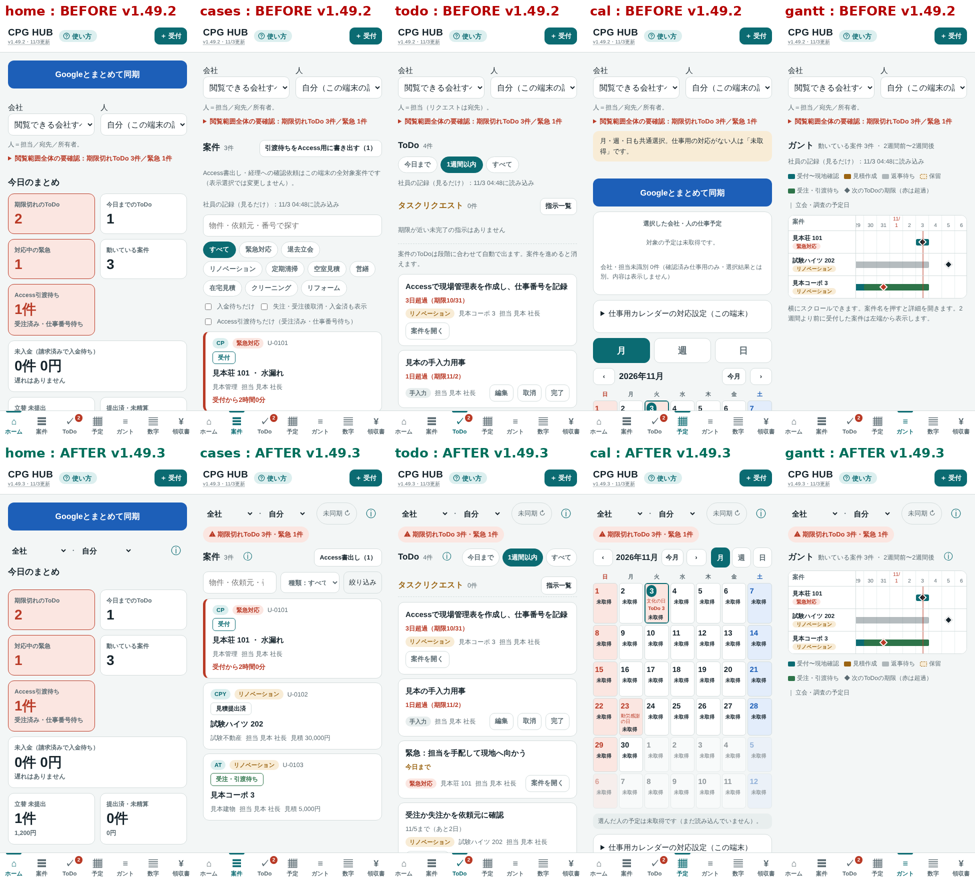
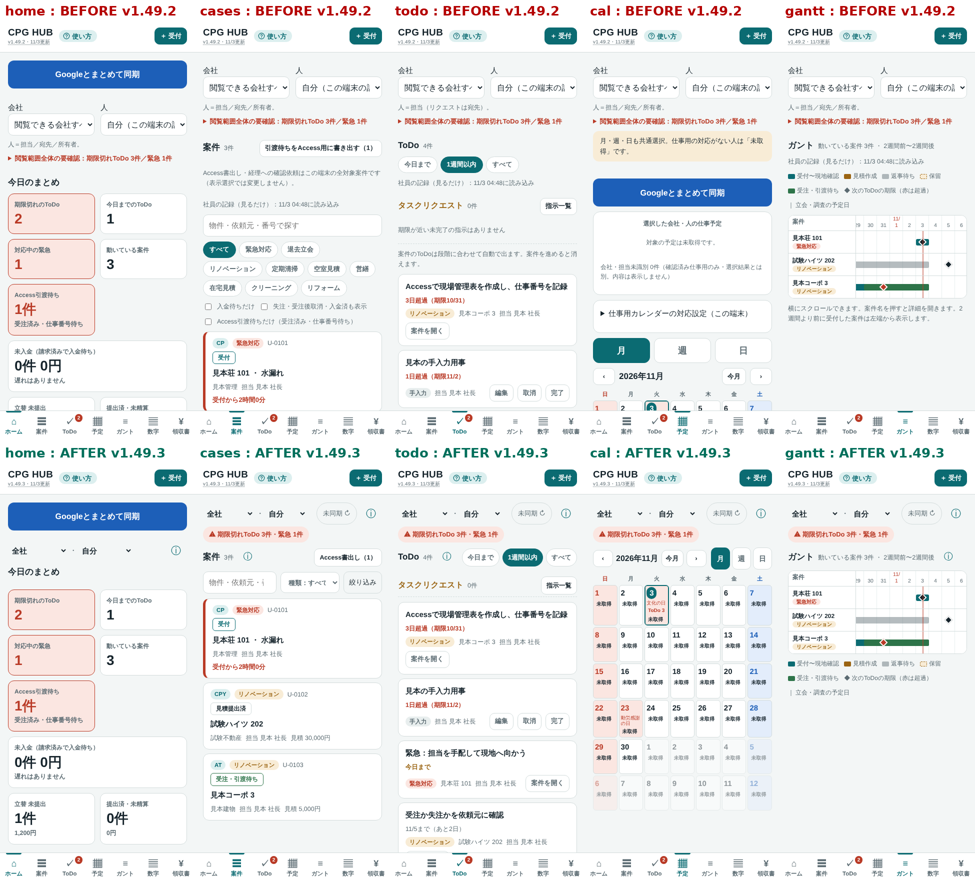
Move calendar notes into the info box and the mapping setting under settings; update manuals (v1.49.3)
The calendar tab drops the status panel: its explanation opens from the
(i) button, and only small tags remain for events whose owner is unknown,
read failures or a needed re-sync. Month/week/day is a thin 44px switch
on the month row. The work-calendar mapping moves to the settings under
the numbers tab. Manuals gain first-use steps (staff and GM/全社), the
new-device notes about calendar links and duplicate registration, and
plain words in place of developer terms.

Claude-Session: https://claude.ai/code/session_017ZjmPTZswQcPFukXWs9n4w

Changed region(s): [[0.6154, 0.7636, 0.8, 0.8552], [0.6154, 0.6109, 0.8, 0.733], [0.6154, 0.8857, 0.7692, 0.9774]]

diff --git a/manual.html b/manual.html
@@ -76,7 +76,7 @@ th{color:var(--muted);font-size:13px}
   <div class="card"><b>もくじ</b>
     <ol class="toc">
       <li><a href="#intro">はじめに</a></li>
-      <li><a href="#setup">最初の設定</a></li>
+      <li><a href="#setup">最初の設定</a>（<a href="#firstuse">初めて使うとき</a>・<a href="#newdevice">新しいスマホ・PC</a>）</li>
       <li><a href="#daily">毎日の使い方（1日3回の同期・ToDo）</a></li>
       <li><a href="#cases">案件</a></li>
       <li><a href="#calendar">予定とカレンダー</a></li>
@@ -104,6 +104,25 @@ th{color:var(--muted);font-size:13px}
 
 <section id="setup">
   <h2>最初の設定</h2>
+  <h3 id="firstuse">初めて使うとき（ホームの「初期設定」）</h3>
+  <p>新しい端末で開くと、ホームの一番上に <b>初期設定</b> が出ます。「次にすること」のボタンを、上から順に押してください。順番を飛ばすと「先に○○をしてください」と出て止まります。</p>
+  <p><b>社員の人</b>（役割は「社員」のまま）</p>
+  <ol>
+    <li>Googleにログイン（仕事で使うGoogleアカウント）</li>
+    <li>本人の記録シートにつなぐ（社長から届いたメールのリンクを貼り付ける）</li>
+    <li>氏名・会社を確かめる</li>
+    <li>最初の同期</li>
+    <li>案件の受付・ToDo・領収書のどれかを1件入れて保存し、「保存と読み戻しを確かめる」を押す</li>
+  </ol>
+  <p><b>GM・全社の人</b>（案内の「役割」で「GM・全社」を押す）</p>
+  <ol>
+    <li>Googleにログイン</li>
+    <li>本人の記録シートにつなぐ</li>
+    <li>氏名・会社を確かめる</li>
+    <li>最初の同期</li>
+    <li>見る人用一覧をつなぐ（社長から届いた「見る人用のリンク」を貼り付ける）。<b>必ず④のあとにします。</b>先につなぐと、会社・人の選択肢から自分が外れます</li>
+  </ol>
+  <p class="note">同期したときに「この端末には記録がありません」と出たら、<a href="#newdevice">新しいスマホ・PCで使い始めるとき</a> を見てください。終わったら「案内を閉じる」を押します。下の1〜3は、案内の中でしていることの詳しい説明です。</p>
   <h3>1. 新しい版にする（開き直す）</h3>
   <ol>
     <li>CPG HUB を開く</li>
@@ -221,6 +240,9 @@ th{color:var(--muted);font-size:13px}
     <li>土曜は青、日曜と祝日は赤です。案件の現調・実施・見積提出などの印は、この画面には出しません。進捗は<b>案件・ガント</b>で確認します</li>
     <li><b>社長のマイカレンダーは読み込みません。</b>社長の端末の「自分」、社員の端末の「社長」に当たる同じカレンダーが対象です。社員自身のカレンダーと共有の「CPG HUB」は引き続き表示できます。設定で全ての表示チェックを外した場合は、Googleの予定を表示しません</li>
     <li>Googleの予定は、カレンダーごとに色と小さなラベル（「CPG HUB」「黒木」など）が付きます</li>
+    <li>月・週・日の切り替えは、年月の右の細い切り替えです。予定がちゃんと読み込めているかは、上の <b>ⓘ</b> で見られます。「未取得」はまだ読み込めていない日で、予定がないという意味ではありません</li>
+    <li>持ち主の分からない予定や、同期し直しが要る予定があるときだけ、年月の下に小さな札が出ます</li>
+    <li>仕事用のカレンダーを会社・人と結び付ける設定は、<b>数字</b> → 下の <b>仕事用カレンダーの対応設定（この端末）</b> にあります。普段は使いません</li>
   </ul>
   <div class="note"><b>予定はGoogleカレンダーから表示します。</b>HUBからGoogleに登録した予定も表示します。案件の記録だけでは予定は増えません。<br>ToDoは<b>ToDo画面</b>で管理します。<b>今日が期限・期限を過ぎた未完了のToDoだけ、今日の欄にも表示</b>します。未来の日・過去の期限日にはToDoを並べません。今日のToDoを押すとToDo画面を開きます。<br>更新後は一度「Googleとまとめて同期」を押してください。旧版で残したGoogle予定はカレンダーIDがなく安全に見分けられないため、初回にこの端末のGoogle予定キャッシュだけを消します。案件・ToDo・領収書は消しません。更新後の予定は読み込み元IDを確認して保存・表示します。端末ごとに新版を開いてください（開きっぱなしの旧版には反映されません）。</div>
   <ol>
@@ -308,7 +330,8 @@ th{color:var(--muted);font-size:13px}
   <ol>
     <li>前の端末の記録を引き継ぐときは <span class="btn">共有の記録から、この端末に取り込む</span> を押す</li>
     <li>「取り込み、読み戻して一致を確かめました」と出たら、<span class="blue">Googleとまとめて同期</span> を押す</li>
-    <li>写真・メモ・住所の詳細は共有の記録シートにないため戻りません。必要なものは前の端末で確かめてください</li>
+    <li>写真・メモ・症状・住所の詳細と、<b>Googleカレンダーとのつながり</b>は共有の記録シートにないため戻りません。必要なものは前の端末で確かめてください</li>
+    <li><b>取り込んだ案件の予定は、先にGoogleカレンダーを見て、もう入っているか確かめてください。</b>入っているのに案件の画面で「カレンダーに登録」を押すと、同じ予定が2つできます</li>
   </ol>
   <p class="note">分からないときは <span class="btn">やめる</span> を押して社長に連絡してください。やめても、記録が空か少ないあいだは同期で書き込みません。</p>
   <h3>タスクリクエスト（社員用）</h3>
@@ -423,10 +446,10 @@ th{color:var(--muted);font-size:13px}
 <section><h2>v1.48.2（2026年11月1日）日付のずれと文字の折り返し</h2><p>同期結果の「日付の変わった案件」には受付番号・物件・部屋と、HUBの予定日／カレンダーに登録した日付を表示します。最初の5件を表示し、「ほか○件」で残りを開閉できます。案件を押すとGoogleカレンダー欄へ移動します。日付のずれは同期エラーとは別の「要確認」です。必要な更新は本人が「カレンダーの予定を更新」を押して行います。自動更新はしません。文字が大きい場合も枠内で折り返し、広い表は表の中で横にスクロールします。</p></section>
 <section><h2>v1.48.3（2026年11月1日）数字の月別・全期間</h2><p>数字画面の「月別／全期間」で集計期間を切り替えます。月別の初期表示は日本時間の今月で、年月を選ぶか「前月」「翌月」で移動できます。見積提出は見積提出日、受注は受注日、失注は失注日で数え、担当別・種類別・理由・受注額・決定率を同じ期間で比べられます。全期間も日付のない実績は含めません。決定率は受注÷（受注＋失注）、0件なら「—」です。失注日未入力の注意は期間外の独立表示で、失注件数・決定率に含めません。未入金は現在残高で、選択期間の対象外です。失注段階優先と正しい受注後取消の受注履歴は従来どおりです。</p></section>
 <section><h2>v1.48.4（2026年11月1日）同期をホームの先頭へ</h2><p>ホームは、ヘッダーの直下に「Googleとまとめて同期」ボタンと同期結果を表示し、その下に今日のまとめ、タスクリクエスト、会社の動き（社長・全社・GM）を並べます。同期成功時の開閉や、エラー・今日未同期・未送信の完了報告・日付のずれ等の注意は従来どおりです。配置だけの変更で、同期・保存・権限・集計は変わりません。</p></section>
-<section><h2>v1.49.3（2026年11月3日）画面の上の部分を小さく</h2><p>どのタブも、上に積み重なっていた会社・人の大きなプルダウン、説明の文章、同期ボタンを小さくして、見たい一覧・予定・数字がすぐ見えるようにしました。会社・人は細い1行で、押すと選べます。注意があるときだけ赤い札が出て、押すとその一覧が開きます。説明は「ⓘ」を押したときだけ出ます。大きな「Googleとまとめて同期」はホームだけで、ほかのタブは小さな「日時 ↻」で同期します。この端末の同期の注意は、ホームでは今までどおり出し、ほかのタブでも「↻」に赤い「⚠」が付きます。</p><p>案件の種類はプルダウンに、「入金待ちだけ」などは「絞り込み」の中に、「Access書出し」は見出しの右端に移しました。予定は「月・週・日」を月の切り替えと同じ行に置き、読み込みの状況は予定の下に短い言葉で出します。数字の月は「‹ 前月｜年月｜翌月 ›」の1行（真ん中を押すと月を選べる）にしました。データ・同期・保存・権限・絞り込みの中身・集計は変えていません。</p></section>
+<section><h2>v1.49.3（2026年11月3日）画面の上の部分を小さく</h2><p>どのタブも、上に積み重なっていた会社・人の大きなプルダウン、説明の文章、同期ボタンを小さくして、見たい一覧・予定・数字がすぐ見えるようにしました。会社・人は細い1行で、押すと選べます。注意があるときだけ赤い札が出て、押すとその一覧が開きます。説明は「ⓘ」を押したときだけ出ます。大きな「Googleとまとめて同期」はホームだけで、ほかのタブは小さな「日時 ↻」で同期します。この端末の同期の注意は、ホームでは今までどおり出し、ほかのタブでも「↻」に赤い「⚠」が付きます。</p><p>案件の種類はプルダウンに、「入金待ちだけ」などは「絞り込み」の中に、「Access書出し」は見出しの右端に移しました。予定は、大きな同期ボタンをなくし、「月・週・日」を年月と同じ行の細い切り替えにしました。読み込みの状況の説明は「ⓘ」の中に入れ、持ち主の分からない予定などがあるときだけ小さな札を出します。「仕事用カレンダーの対応設定」は、普段使わないので予定のタブから「数字」の下の設定へ移しました。数字の月は「‹ 前月｜年月｜翌月 ›」の1行（真ん中を押すと月を選べる）にしました。データ・同期・保存・権限・絞り込みの中身・集計は変えていません。</p></section>
 <section><h2>v1.49.2（2026年11月3日）初期設定の案内と、入力途中の設定を残す</h2><p>新しい端末でCPG HUBを開くと、ホームの一番上に「初期設定」が出ます。社員は ①Googleにログイン → ②本人の記録シートにつなぐ → ③氏名・会社を確かめる → ④最初の同期 → ⑤記録を1件保存して、読み戻しを確かめる の順です。GM・全社の人は「役割」で「GM・全社」を選び、①〜④のあとに ⑤見る人用一覧をつなぐ です。今どこまで済んだかと次にすることが1画面に出ます。順番を飛ばしたとき（氏名・会社を確かめる前の同期、最初の同期の前の見る人用一覧など）は「先に○○をしてください」と出て止まります。⑤の確認では、確認用の記録は作りません。自分で入れた案件・ToDo・領収書が端末に保存され、読み戻せるかを確かめます。終わったら「案内を閉じる」を押します。社長の端末と、すでに使っている端末には出ません。</p><p>予定の画面の「仕事用カレンダーの対応設定」や、数字の画面の設定・ToDoの手入力は、入力の途中で画面が描き直されても（カレンダーの読み込みが終わったときなど）、入力した内容と開いた欄が残ります。カレンダーの一覧を読み込んでいるあいだは「読み込み中です」と出て、終わってから選べます。保存・追加すると、入力欄は空に戻ります。</p></section>
 <section><h2>v1.49.1（2026年11月3日）空の端末から同期しても共有の記録を消さない</h2><p>「Googleとまとめて同期」は、記録シートに書き込む前に、共有の記録シートの案件・入金・立替の件数を読みます。この端末の記録が空なのに共有の記録シートに行があるとき、または案件・立替が共有の半分より少ないとき（共有が4件以上）は、記録シートに何も書かずに止まり、「この端末には記録がありません。共有の記録シートに○件あります」と表示します。新しい端末で記録シートに最初につないだときも、同じ確認を出します。</p><p>「共有の記録から、この端末に取り込む」を押すと、共有の記録シートにある案件・入金・立替・手入力のToDoのうち、この端末にないものだけを取り込みます。取り込んだ内容を記録シートに送るときと同じ形にして共有の行と比べ、件数と内容が一致し、端末に保存して読み戻せたときだけ完了です。途中で失敗したときや一致しないときは、端末も共有の記録シートも変えません。この端末にある記録は書き換えません。写真・メモ・症状・住所の詳細は共有の記録シートにないため戻りません（領収書の写真のリンクは残ります）。「やめる」を押しても、記録が空か少ないあいだは同期で書き込みません。空のまま上書きする操作はありません。</p><p>共有の件数が読めないとき（通信が切れたときなど）も、記録シートに書き込みません。入金・立替・ToDoの表は、消してから書くのではなく1回の書き込みで置き換えるようにしたため、書き込みの途中で通信が切れても表が空になりません。</p></section>
-<section><h2>v1.49.0（2026年11月2日）共通の会社・人選択</h2><p>ホーム・案件・ToDo・数字・ガント・指示一覧・領収書・会社の動きは、共通の会社・人のドロップダウンで同じ対象を選びます。人は案件と通常ToDoでは担当、リクエストでは宛先、領収書では所有者です。初めは自分。会社と人を選ぶと画面移動・再読込後も引き継ぎます。会社未設定の案件・領収書は所属会社から推測せず「会社未設定」で確認します。案件に結び付かないToDoとリクエストの会社は、根拠のある担当・宛先の所属によります。</p><p>同名の人はシートIDで区別します。選んだ人を読めない・権限を確認できないときに、勝手に全員へ切り替えません。未読込や読込失敗は0件という意味ではありません。数字の月別／全期間と計算方法、保存データ、同期出力は変わりません。</p><p>ToDoの期間、数字の年月・全期間はそのまま使えます。絞り込んだ件数とは別に、閲覧範囲全体の期限切れToDo・緊急・未読と、この端末の同期の注意を表示します。会社の動きの同期状況は閲覧範囲全体の注意です。入力中の画面では選択を変えず、一覧へ戻って変更します。入金確認依頼やAccess書出し等の既存操作は表示選択で対象を変更しません。領収書の支払い方法だけは領収書画面内で選べます。</p><p>予定の月・週・日と今日のToDoも共通選択に連動します。予定画面の「仕事用カレンダーの対応設定」で、取得済みのGoogle一覧から仕事専用と確認したIDを選び、会社・正規社員を確認して保存します。このブラウザの利用設定別に保存し、他端末へ自動配布しません。未設定・未接続・範囲外・読取失敗は「未取得」で、取得済み0件とは区別します。社員候補は予定未接続でも残ります。「数字」→「Googleカレンダー連携」の読込対象にも選び、予定入力後は本人が同期してください。対応設定だけでは読込対象を増やしません。</p><p>複数社を担当し予定ごとの会社が不明なら「会社未特定」を選びます。全社＋本人では表示し、単社へ推測で振り分けません。混在仕事共有は、案件の元記録に保存されたカレンダーID＋イベントID＋受付番号が一意に一致する場合だけ分類します。社員共有表にはイベントIDがないため、他社員の混在予定や旧キャッシュのID欠落は未識別の別件数です。私的予定・未確認カレンダーは表示せず、「全員」でも確認済み仕事用だけです。旧キャッシュで非公開区分を確認できない行は原本を保持し、内容を表示せず「非公開区分未確認」とします。本人が同期して安全属性を再取得してから表示します。混在共有の読取失敗は「追加予定未確認」、取得済みで会社・人物が不明なものは「未識別あり」と分け、予定なしとは断定しません。Google予定・ACL・登録更新処理は変更しません。</p></section>
+<section><h2>v1.49.0（2026年11月2日）共通の会社・人選択</h2><p>ホーム・案件・ToDo・数字・ガント・指示一覧・領収書・会社の動きは、共通の会社・人のドロップダウンで同じ対象を選びます。人は、案件とToDoでは担当、リクエストではあて先、領収書では出した人です。初めは自分。会社と人を選ぶと画面移動・再読込後も引き継ぎます。会社未設定の案件・領収書は所属会社から推測せず「会社未設定」で確認します。案件に結び付かないToDoとリクエストの会社は、根拠のある担当・宛先の所属によります。</p><p>同名の人はシートIDで区別します。選んだ人を読めない・権限を確認できないときに、勝手に全員へ切り替えません。未読込や読込失敗は0件という意味ではありません。数字の月別／全期間と計算方法、保存データ、同期出力は変わりません。</p><p>ToDoの期間、数字の年月・全期間はそのまま使えます。選んだ会社・人の件数とは別に、見られる人全体の期限切れToDo・緊急・まだ読み込めていない人と、この端末の同期の注意を出します。会社の動きの同期の状況は、見られる人全体の注意です。入力中の画面では選択を変えず、一覧へ戻って変更します。入金確認依頼やAccess書出し等の既存操作は表示選択で対象を変更しません。領収書の支払い方法だけは領収書画面内で選べます。</p><p>予定の月・週・日と今日のToDoも、選んだ会社・人に合わせて出します。予定画面の「仕事用カレンダーの対応設定」で、取得済みのGoogle一覧から仕事専用と確認したIDを選び、会社・正規社員を確認して保存します。このブラウザの利用設定別に保存し、他端末へ自動配布しません。未設定・未接続・範囲外・読取失敗は「未取得」で、取得済み0件とは区別します。社員候補は予定未接続でも残ります。「数字」→「Googleカレンダー連携」の「予定画面に表示するカレンダー」でも選び、予定を入れたら本人が同期してください。結び付けただけでは、読み込むカレンダーは増えません。</p><p>複数社を担当し予定ごとの会社が不明なら「会社未特定」を選びます。全社＋本人では表示し、単社へ推測で振り分けません。複数の人が使う仕事用カレンダーの予定は、HUBの案件と結び付いた予定だけ、誰の予定か分かります。ほかの社員の予定や、古い保存分で結び付きが分からない予定は「持ち主不明」として件数だけ出します。私的予定・未確認カレンダーは表示せず、「全員」でも確認済み仕事用だけです。古い保存分で、非公開かどうか分からない予定は、中身を出さずに「同期し直してください」と出します。本人が同期すると、中身が出ます。共有のカレンダーを読めなかったときは「一部未取得」、読めたが誰の予定か分からないときは「持ち主不明あり」と出し、予定がないとは扱いません。Google予定・ACL・登録更新処理は変更しません。</p></section>
 <section><h2>v1.48.7（2026年11月2日）氏名をフルネームで表示</h2><p>社員一覧で確認できる正式な氏名を、担当・案件・ToDo・数字などに表示します。過去の担当名や案件の記録は書き換えません。同姓同名はGmailとシートIDで区別し、正規名と旧名が重なる担当選択は無効にします。誰か分からない略称は推測せず元の表示を残します。</p><p>正規氏名の変更は社長用の「数字」→「管理（社長用）」→対象社員の「正規氏名」から行います。変更前後・旧担当キー・保存先を確認し「変更を確認して保存」を押します。「やめる」または確認画面を閉じると変更しません。管理者が変更した後、社員・閲覧者は新版で同期すると表示に反映します。旧版は正規氏名の変更履歴を読みません。</p><p>変更は既存シートの「社員氏名履歴」に追記します。氏名・旧名・シートID・変更日時を含み、既存の閲覧権限を持つ人が読めます。新しい権限は付けません。通信途中の失敗時は成功と考えず、同じ名前で再確認してください。複数シートへの反映は一括ではないため、一部だけ反映する場合があります。管理操作は1端末・1タブずつ行ってください。社員本人の従来の氏名設定・過去の精算書や指示に記録された名前は、自動置換しません。</p></section>
 <section><h2>v1.48.6（2026年11月2日）GMの範囲と共有の確認</h2><p>GMが見たり指示を出したりできる相手は、GMと同じ1社だけに所属する一般社員です。複数会社に所属する人、全社・GMなどの管理者は含めません。全社の範囲は従来どおりです。会社・役割を保存するときは、共有の一覧（誰のシート・ファイルID・相手・権限）を確認してから実行します。旧共有や変更元を確認できない共有は残し、「要確認」と表示します。役割を外しても、要確認の共有が残る場合はGoogle上のアクセスが続きます。自動的に全部外れたとは考えず、管理者が個別に確認してください。</p></section>
 <section><h2>v1.48.5（2026年11月1日）保存済み予定と未取得日の区別</h2><p>予定の月・週・日表示では、保存済みの範囲に重なる予定を表示します。月の前後の余白が保存範囲外でも、取得済みの月の予定は消えません。範囲外や読込みが確認できない日は「未取得」と表示し、「予定なし」と区別します。一部のカレンダーを読めなかった場合も、取得できた予定を表示しながら未取得の注意を残します。最新の予定を取得する操作は従来どおり「Googleとまとめて同期」です。Googleの予定・同期処理・保存形式・閲覧権限は変更しません。</p></section>

diff --git a/manual-admin.html b/manual-admin.html
@@ -143,7 +143,7 @@ th{color:var(--muted);font-size:13px}
 
 <section id="topbar-admin">
   <h2>画面の上の部分（社長・全社・GM）</h2>
-  <p>どのタブも、いちばん上は会社・人の細い1行です。押すと選べます。注意があるときだけ赤い札（期限切れToDo・緊急・失注日なし・未読込の人数）が出て、押すとその一覧が開きます。説明は「ⓘ」を押したときだけ出ます。大きな「Googleとまとめて同期」はホームだけで、ほかのタブは小さな「日時 ↻」で同期します。会社の動きの「記録を読み込む」は見出しの下、「一覧を読み直す」は「ⓘ」の中です。</p>
+  <p>どのタブも、いちばん上は会社・人の細い1行です。押すと選べます。注意があるときだけ赤い札（期限切れToDo・緊急・失注日なし・未読込の人数）が出て、押すとその一覧が開きます。説明は「ⓘ」を押したときだけ出ます。大きな「Googleとまとめて同期」はホームだけで、ほかのタブは小さな「日時 ↻」で同期します。会社の動きの「記録を読み込む」は見出しの下、「一覧を読み直す」は「ⓘ」の中です。仕事用カレンダーと会社・人の結び付けは、「数字」の下の「仕事用カレンダーの対応設定（この端末）」でします（予定のタブからは外しました）。</p>
 </section>
 
 <section id="viewer">
@@ -178,10 +178,10 @@ th{color:var(--muted);font-size:13px}
 <section><h2>v1.48.2（2026年11月1日）日付のずれと文字の折り返し</h2><p>同期結果の「日付の変わった案件」には受付番号・物件・部屋と、HUBの予定日／カレンダーに登録した日付を表示します。最初の5件を表示し、「ほか○件」で残りを開閉できます。案件を押すとGoogleカレンダー欄へ移動します。日付のずれは同期エラーとは別の「要確認」です。必要な更新は本人が「カレンダーの予定を更新」を押して行います。自動更新はしません。文字が大きい場合も枠内で折り返し、広い表は表の中で横にスクロールします。</p></section>
 <section><h2>v1.48.3（2026年11月1日）数字の月別・全期間</h2><p>数字画面の「月別／全期間」で集計期間を切り替えます。月別の初期表示は日本時間の今月で、年月を選ぶか「前月」「翌月」で移動できます。見積提出は見積提出日、受注は受注日、失注は失注日で数え、担当別・種類別・理由・受注額・決定率を同じ期間で比べられます。全期間も日付のない実績は含めません。決定率は受注÷（受注＋失注）、0件なら「—」です。失注日未入力の注意は期間外の独立表示で、失注件数・決定率に含めません。未入金は現在残高で、選択期間の対象外です。失注段階優先と正しい受注後取消の受注履歴は従来どおりです。</p></section>
 <section><h2>v1.48.4（2026年11月1日）同期をホームの先頭へ</h2><p>ホームは、ヘッダーの直下に「Googleとまとめて同期」ボタンと同期結果を表示し、その下に今日のまとめ、タスクリクエスト、会社の動き（社長・全社・GM）を並べます。同期成功時の開閉や、エラー・今日未同期・未送信の完了報告・日付のずれ等の注意は従来どおりです。配置だけの変更で、同期・保存・権限・集計は変わりません。</p></section>
-<section><h2>v1.49.3（2026年11月3日）画面の上の部分を小さく</h2><p>どのタブも、上に積み重なっていた会社・人の大きなプルダウン、説明の文章、同期ボタンを小さくして、見たい一覧・予定・数字がすぐ見えるようにしました。会社・人は細い1行で、押すと選べます。注意があるときだけ赤い札が出て、押すとその一覧が開きます。説明は「ⓘ」を押したときだけ出ます。大きな「Googleとまとめて同期」はホームだけで、ほかのタブは小さな「日時 ↻」で同期します。この端末の同期の注意は、ホームでは今までどおり出し、ほかのタブでも「↻」に赤い「⚠」が付きます。</p><p>案件の種類はプルダウンに、「入金待ちだけ」などは「絞り込み」の中に、「Access書出し」は見出しの右端に移しました。予定は「月・週・日」を月の切り替えと同じ行に置き、読み込みの状況は予定の下に短い言葉で出します。数字の月は「‹ 前月｜年月｜翌月 ›」の1行（真ん中を押すと月を選べる）にしました。データ・同期・保存・権限・絞り込みの中身・集計は変えていません。</p></section>
+<section><h2>v1.49.3（2026年11月3日）画面の上の部分を小さく</h2><p>どのタブも、上に積み重なっていた会社・人の大きなプルダウン、説明の文章、同期ボタンを小さくして、見たい一覧・予定・数字がすぐ見えるようにしました。会社・人は細い1行で、押すと選べます。注意があるときだけ赤い札が出て、押すとその一覧が開きます。説明は「ⓘ」を押したときだけ出ます。大きな「Googleとまとめて同期」はホームだけで、ほかのタブは小さな「日時 ↻」で同期します。この端末の同期の注意は、ホームでは今までどおり出し、ほかのタブでも「↻」に赤い「⚠」が付きます。</p><p>案件の種類はプルダウンに、「入金待ちだけ」などは「絞り込み」の中に、「Access書出し」は見出しの右端に移しました。予定は、大きな同期ボタンをなくし、「月・週・日」を年月と同じ行の細い切り替えにしました。読み込みの状況の説明は「ⓘ」の中に入れ、持ち主の分からない予定などがあるときだけ小さな札を出します。「仕事用カレンダーの対応設定」は、普段使わないので予定のタブから「数字」の下の設定へ移しました。数字の月は「‹ 前月｜年月｜翌月 ›」の1行（真ん中を押すと月を選べる）にしました。データ・同期・保存・権限・絞り込みの中身・集計は変えていません。</p></section>
 <section><h2>v1.49.2（2026年11月3日）初期設定の案内と、入力途中の設定を残す</h2><p>新しい端末でCPG HUBを開くと、ホームの一番上に「初期設定」が出ます。社員は ①Googleにログイン → ②本人の記録シートにつなぐ → ③氏名・会社を確かめる → ④最初の同期 → ⑤記録を1件保存して、読み戻しを確かめる の順です。GM・全社の人は「役割」で「GM・全社」を選び、①〜④のあとに ⑤見る人用一覧をつなぐ です。今どこまで済んだかと次にすることが1画面に出ます。順番を飛ばしたとき（氏名・会社を確かめる前の同期、最初の同期の前の見る人用一覧など）は「先に○○をしてください」と出て止まります。⑤の確認では、確認用の記録は作りません。自分で入れた案件・ToDo・領収書が端末に保存され、読み戻せるかを確かめます。終わったら「案内を閉じる」を押します。社長の端末と、すでに使っている端末には出ません。</p><p>予定の画面の「仕事用カレンダーの対応設定」や、数字の画面の設定・ToDoの手入力は、入力の途中で画面が描き直されても（カレンダーの読み込みが終わったときなど）、入力した内容と開いた欄が残ります。カレンダーの一覧を読み込んでいるあいだは「読み込み中です」と出て、終わってから選べます。保存・追加すると、入力欄は空に戻ります。</p></section>
 <section><h2>v1.49.1（2026年11月3日）空の端末から同期しても共有の記録を消さない</h2><p>「Googleとまとめて同期」は、記録シートに書き込む前に、共有の記録シートの案件・入金・立替の件数を読みます。この端末の記録が空なのに共有の記録シートに行があるとき、または案件・立替が共有の半分より少ないとき（共有が4件以上）は、記録シートに何も書かずに止まり、「この端末には記録がありません。共有の記録シートに○件あります」と表示します。新しい端末で記録シートに最初につないだときも、同じ確認を出します。</p><p>「共有の記録から、この端末に取り込む」を押すと、共有の記録シートにある案件・入金・立替・手入力のToDoのうち、この端末にないものだけを取り込みます。取り込んだ内容を記録シートに送るときと同じ形にして共有の行と比べ、件数と内容が一致し、端末に保存して読み戻せたときだけ完了です。途中で失敗したときや一致しないときは、端末も共有の記録シートも変えません。この端末にある記録は書き換えません。写真・メモ・症状・住所の詳細は共有の記録シートにないため戻りません（領収書の写真のリンクは残ります）。「やめる」を押しても、記録が空か少ないあいだは同期で書き込みません。空のまま上書きする操作はありません。</p><p>共有の件数が読めないとき（通信が切れたときなど）も、記録シートに書き込みません。入金・立替・ToDoの表は、消してから書くのではなく1回の書き込みで置き換えるようにしたため、書き込みの途中で通信が切れても表が空になりません。</p></section>
-<section><h2>v1.49.0（2026年11月2日）共通の会社・人選択</h2><p>ホーム・案件・ToDo・数字・ガント・指示一覧・領収書・会社の動きは、共通の会社・人のドロップダウンで同じ対象を選びます。人は案件と通常ToDoでは担当、リクエストでは宛先、領収書では所有者です。初めは自分。会社と人を選ぶと画面移動・再読込後も引き継ぎます。会社未設定の案件・領収書は所属会社から推測せず「会社未設定」で確認します。案件に結び付かないToDoとリクエストの会社は、根拠のある担当・宛先の所属によります。</p><p>同名の人はシートIDで区別します。選んだ人を読めない・権限を確認できないときに、勝手に全員へ切り替えません。未読込や読込失敗は0件という意味ではありません。数字の月別／全期間と計算方法、保存データ、同期出力は変わりません。</p><p>ToDoの期間、数字の年月・全期間はそのまま使えます。絞り込んだ件数とは別に、閲覧範囲全体の期限切れToDo・緊急・未読と、この端末の同期の注意を表示します。会社の動きの同期状況は閲覧範囲全体の注意です。入力中の画面では選択を変えず、一覧へ戻って変更します。入金確認依頼やAccess書出し等の既存操作は表示選択で対象を変更しません。領収書の支払い方法だけは領収書画面内で選べます。</p><p>予定の月・週・日と今日のToDoも共通選択に連動します。予定画面の「仕事用カレンダーの対応設定」で、取得済みのGoogle一覧から仕事専用と確認したIDを選び、会社・正規社員を確認して保存します。このブラウザの利用設定別に保存し、他端末へ自動配布しません。未設定・未接続・範囲外・読取失敗は「未取得」で、取得済み0件とは区別します。社員候補は予定未接続でも残ります。「数字」→「Googleカレンダー連携」の読込対象にも選び、予定入力後は本人が同期してください。対応設定だけでは読込対象を増やしません。</p><p>複数社を担当し予定ごとの会社が不明なら「会社未特定」を選びます。全社＋本人では表示し、単社へ推測で振り分けません。混在仕事共有は、案件の元記録に保存されたカレンダーID＋イベントID＋受付番号が一意に一致する場合だけ分類します。社員共有表にはイベントIDがないため、他社員の混在予定や旧キャッシュのID欠落は未識別の別件数です。私的予定・未確認カレンダーは表示せず、「全員」でも確認済み仕事用だけです。旧キャッシュで非公開区分を確認できない行は原本を保持し、内容を表示せず「非公開区分未確認」とします。本人が同期して安全属性を再取得してから表示します。混在共有の読取失敗は「追加予定未確認」、取得済みで会社・人物が不明なものは「未識別あり」と分け、予定なしとは断定しません。Google予定・ACL・登録更新処理は変更しません。</p></section>
+<section><h2>v1.49.0（2026年11月2日）共通の会社・人選択</h2><p>ホーム・案件・ToDo・数字・ガント・指示一覧・領収書・会社の動きは、共通の会社・人のドロップダウンで同じ対象を選びます。人は、案件とToDoでは担当、リクエストではあて先、領収書では出した人です。初めは自分。会社と人を選ぶと画面移動・再読込後も引き継ぎます。会社未設定の案件・領収書は所属会社から推測せず「会社未設定」で確認します。案件に結び付かないToDoとリクエストの会社は、根拠のある担当・宛先の所属によります。</p><p>同名の人はシートIDで区別します。選んだ人を読めない・権限を確認できないときに、勝手に全員へ切り替えません。未読込や読込失敗は0件という意味ではありません。数字の月別／全期間と計算方法、保存データ、同期出力は変わりません。</p><p>ToDoの期間、数字の年月・全期間はそのまま使えます。選んだ会社・人の件数とは別に、見られる人全体の期限切れToDo・緊急・まだ読み込めていない人と、この端末の同期の注意を出します。会社の動きの同期の状況は、見られる人全体の注意です。入力中の画面では選択を変えず、一覧へ戻って変更します。入金確認依頼やAccess書出し等の既存操作は表示選択で対象を変更しません。領収書の支払い方法だけは領収書画面内で選べます。</p><p>予定の月・週・日と今日のToDoも、選んだ会社・人に合わせて出します。予定画面の「仕事用カレンダーの対応設定」で、取得済みのGoogle一覧から仕事専用と確認したIDを選び、会社・正規社員を確認して保存します。このブラウザの利用設定別に保存し、他端末へ自動配布しません。未設定・未接続・範囲外・読取失敗は「未取得」で、取得済み0件とは区別します。社員候補は予定未接続でも残ります。「数字」→「Googleカレンダー連携」の「予定画面に表示するカレンダー」でも選び、予定を入れたら本人が同期してください。結び付けただけでは、読み込むカレンダーは増えません。</p><p>複数社を担当し予定ごとの会社が不明なら「会社未特定」を選びます。全社＋本人では表示し、単社へ推測で振り分けません。複数の人が使う仕事用カレンダーの予定は、HUBの案件と結び付いた予定だけ、誰の予定か分かります。ほかの社員の予定や、古い保存分で結び付きが分からない予定は「持ち主不明」として件数だけ出します。私的予定・未確認カレンダーは表示せず、「全員」でも確認済み仕事用だけです。古い保存分で、非公開かどうか分からない予定は、中身を出さずに「同期し直してください」と出します。本人が同期すると、中身が出ます。共有のカレンダーを読めなかったときは「一部未取得」、読めたが誰の予定か分からないときは「持ち主不明あり」と出し、予定がないとは扱いません。Google予定・ACL・登録更新処理は変更しません。</p></section>
 <section><h2>v1.48.7（2026年11月2日）氏名をフルネームで表示</h2><p>社員一覧で確認できる正式な氏名を、担当・案件・ToDo・数字などに表示します。過去の担当名や案件の記録は書き換えません。同姓同名はGmailとシートIDで区別し、正規名と旧名が重なる担当選択は無効にします。誰か分からない略称は推測せず元の表示を残します。</p><p>正規氏名の変更は社長用の「数字」→「管理（社長用）」→対象社員の「正規氏名」から行います。変更前後・旧担当キー・保存先を確認し「変更を確認して保存」を押します。「やめる」または確認画面を閉じると変更しません。管理者が変更した後、社員・閲覧者は新版で同期すると表示に反映します。旧版は正規氏名の変更履歴を読みません。</p><p>変更は既存シートの「社員氏名履歴」に追記します。氏名・旧名・シートID・変更日時を含み、既存の閲覧権限を持つ人が読めます。新しい権限は付けません。通信途中の失敗時は成功と考えず、同じ名前で再確認してください。複数シートへの反映は一括ではないため、一部だけ反映する場合があります。管理操作は1端末・1タブずつ行ってください。社員本人の従来の氏名設定・過去の精算書や指示に記録された名前は、自動置換しません。</p></section>
 <section><h2>v1.48.6（2026年11月2日）GMの範囲と共有の確認</h2><p>GMが見たり指示を出したりできる相手は、GMと同じ1社だけに所属する一般社員です。複数会社に所属する人、全社・GMなどの管理者は含めません。全社の範囲は従来どおりです。会社・役割を保存するときは、共有の一覧（誰のシート・ファイルID・相手・権限）を確認してから実行します。旧共有や変更元を確認できない共有は残し、「要確認」と表示します。役割を外しても、要確認の共有が残る場合はGoogle上のアクセスが続きます。自動的に全部外れたとは考えず、管理者が個別に確認してください。</p><p>共有確認後、社長の社員一覧に「共有管理履歴」を作り、変更前後の権限とGmail・ファイルID・日時を追記します。初回表示や通常同期では作りません。作成済みの社員列と指示箱の列は変えません。この機能で新しく付け、結果と履歴の読戻しまで確認できた共有だけを解除対象にします。既存の共有は再利用しても解除対象にしません。結果不明・履歴不整合・外部変更では自動再試行せず、表示された対象を確認してください。管理操作は1端末・1タブで行い、Driveの共有変更と同時に行わないでください。同じ内容で外部から付け直された共有まで識別する保証はありません。新規作成を途中でやめてもファイルは残します。案内メールは自動送信しません。旧版では安全確認が働かないため、管理に使う全端末・旧タブを更新してから操作してください。</p></section>
 <section><h2>v1.48.5（2026年11月1日）保存済み予定と未取得日の区別</h2><p>予定の月・週・日表示では、保存済みの範囲に重なる予定を表示します。月の前後の余白が保存範囲外でも、取得済みの月の予定は消えません。範囲外や読込みが確認できない日は「未取得」と表示し、「予定なし」と区別します。一部のカレンダーを読めなかった場合も、取得できた予定を表示しながら未取得の注意を残します。最新の予定を取得する操作は従来どおり「Googleとまとめて同期」です。Googleの予定・同期処理・保存形式・閲覧権限は変更しません。</p></section>

diff --git a/index.html b/index.html
@@ -29,7 +29,7 @@
 .wkev .ev{font-size:12.5px}
 .wknone{font-size:14px}
 .gcst{font-size:13px}
-section .calnav{flex-wrap:wrap;gap:6px}section .calnav h2{font-size:16px;margin:0;white-space:nowrap;flex:0 1 auto}section .calnav .btn.sm{min-width:40px;padding:4px 8px}section .calnav .calviews{margin-left:auto;flex:0 0 auto;gap:4px}.seg.cv.calviews button{min-height:40px;min-width:38px;font-size:14px;padding:2px 6px;border-radius:10px;flex:0 0 auto}
+section .calnav{flex-wrap:wrap;gap:6px}section .calnav h2{font-size:16px;margin:0;white-space:nowrap;flex:0 1 auto}section .calnav .btn.sm{min-width:40px;padding:4px 8px}.caltags{gap:6px}.caltags .alerttag{cursor:default}section .calnav .calviews{margin-left:auto;flex:0 0 auto;gap:4px}.seg.cv.calviews button{min-height:44px;min-width:38px;font-size:14px;padding:2px 6px;border-radius:10px;flex:0 0 auto}
 .calendar-scope-status{background:var(--sunk);border-radius:10px;padding:6px 10px;color:var(--fg)}.calendar-scope-status p{margin:0}
 .hgrp{display:inline-flex;align-items:center;gap:2px;margin-left:auto}.hgrp .seg{margin-left:0;flex-wrap:nowrap}#stats-won .sec-h h2{font-size:17px}
 .sec-h .seg{margin-left:auto}.sec-h .seg button{min-height:36px;padding:4px 10px;font-size:13px}
@@ -1038,7 +1038,7 @@ function scopeHeader(){
  const tag=[overdue?'期限切れToDo '+overdue+'件':'',urgent?'緊急 '+urgent+'件':'',undated?'失注日なし '+undated+'件':'',missing?'未読込 '+missing+'人':''].filter(Boolean);
  const ctl=CPGViewScope.controls({...s.context,readState:s.state},s.selection).replace('>閲覧できる会社すべて<','>全社<').replace('>閲覧できる人すべて<','>全員<').replace('>自分（この端末の記録）<','>自分<');
  return '<div class="scope-bar"><div class="scope-row">'+ctl+(ui.view==='home'?'':syncMini())+infoBtn('scope','表示の説明')+'</div>'+
- infoBox('scope','<p>会社・人を押すと選べます。選んだ内容は、どのタブでも同じです。人は'+h(meaning)+'のことです。</p>'+(tag.length?'<p>赤い札は、選んでいない会社・人も含めた注意です。読み込めていない人の分は0件とは数えません。</p>':'')+(ui.view==='cal'?'<p>予定の月・週・日も、選んだ会社・人の予定を出します。出すのは、仕事用と決めたカレンダーの予定だけです。私用のカレンダーは出しません。仕事用のカレンダーが決まっていない人や、まだ読み込んでいない日は「未取得」と出ます（予定がないという意味ではありません）。予定を入れたら、その人が同期してください。今日のToDoも、選んだ会社・人の分を出します。日付を押すと、その日の予定とToDoが出ます。</p>':''))+
+ infoBox('scope','<p>会社・人を押すと選べます。選んだ内容は、どのタブでも同じです。人は'+h(meaning)+'のことです。</p>'+(tag.length?'<p>赤い札は、選んでいない会社・人も含めた注意です。読み込めていない人の分は0件とは数えません。</p>':'')+(ui.view==='cal'?(ui.calInfo||'')+'<p>予定の月・週・日も、選んだ会社・人の予定を出します。出すのは、仕事用と決めたカレンダーの予定だけです。私用のカレンダーは出しません。仕事用のカレンダーが決まっていない人や、まだ読み込んでいない日は「未取得」と出ます（予定がないという意味ではありません）。予定を入れたら、その人が同期してください。今日のToDoも、選んだ会社・人の分を出します。日付を押すと、その日の予定とToDoが出ます。仕事用のカレンダーと会社・人の結び付けは、「数字」の下の「仕事用カレンダーの対応設定」でします。</p>':''))+
  (s.missing.length?'<p class="note" role="status" style="margin:0">選んだ中に、まだ読み込めていない人が'+s.missing.length+'人います。読み込めた分だけ出しています。</p>':'')+
  (tag.length&&ui.view!=='home'?'<div class="scope-row scope-notes"><button type="button" class="alerttag scope-alert" data-act="scopealert">⚠ '+h(tag.join('・'))+'</button></div>':'')+
  (ui.scopeSaveError?'<p role="alert">表示設定の保存を確認できません。再読み込みして確認してください。</p>':'')+'</div>';
@@ -1817,7 +1817,7 @@ const calsLoadingNow=()=>!!(G.calsLoading||ui.gsync?.busy);
 function calendarScopeSettings(){
  const ctx=scopeContext(),cat=CPGViewScope.catalog(ctx),stored=CPGCalendarScope.load(localStorage,scopeIdentity());
  const opt=(v,t)=>'<option value="'+h(v)+'">'+h(t)+'</option>';
- return '<details class="panel" data-keep-open="calmap"><summary>仕事用カレンダーの対応設定（この端末）</summary><p class="note">現在のGoogle一覧から、仕事専用と確認したカレンダーだけ設定します。会社・人は正規社員を選び、私的予定を含むものは設定しないでください。共有権限やGoogle予定は変更しません。「数字」→「Googleカレンダー連携」の読込対象にも選び、設定後に本人が同期してください。対応設定だけでは読込対象を増やしません。</p>'+(calsLoadingNow()?'<p role="status">カレンダーの一覧を読み込み中です。終わってから選べます（入力した内容は残ります）。</p>':!G.cals?'<p>一覧未取得です。Googleとまとめて同期後に選べます。</p>':'<form id="calendarScopeForm"><label class="f">カレンダー<select id="cs_cal" required><option value="">選択してください</option>'+G.cals.filter(gReadable).map(c=>opt(c.id,c.name+' / '+c.id)).join('')+'</select></label><label class="f">用途<select id="cs_mode"><option value="person">人物を確認した仕事専用</option><option value="mixed">複数の人が使う仕事用（HUBの案件と結び付いた予定だけ）</option></select></label><label class="f">会社（人物を確認した場合）<select id="cs_company"><option value="">選択してください</option>'+cat.companies.map(c=>opt(c,c)).join('')+opt('unknown','会社未特定（複数社等・推測しない）')+'</select></label><label class="f">人物（人物を確認した場合）<select id="cs_person"><option value="">選択してください</option>'+cat.people.map(p=>opt(p.sheetId,p.name+' / '+p.sheetId)).join('')+'</select></label><label class="f"><span><input type="checkbox" id="cs_work" required>私的予定を含まない仕事用で、会社・人物の対応を確認しました</span></label><button class="btn" type="submit">対応を確認して保存</button></form>')+'<p class="note">複数の人が使うカレンダーの予定は、HUBに登録した案件と結び付いたものだけ、誰の予定か分かります。設定していない人や、誰の予定か分からない予定は、0件という意味ではありません。</p>'+stored.rows.map((r,i)=>'<p class="note">'+h(r.id)+' → '+h(r.mode==='mixed'?'複数の人が使う仕事用':r.company+' / '+(cat.people.find(p=>p.sheetId===r.person)?.name||'人物未確認'))+' <button class="btn sm" type="button" data-calendar-map-remove="'+i+'">対応を外す</button></p>').join('')+(ui.calendarMapError?'<p role="alert">'+h(ui.calendarMapError)+'</p>':'')+'</details>';
+ return '<details class="panel" data-keep-open="calmap"><summary>仕事用カレンダーの対応設定（この端末）</summary><p class="note">Googleのカレンダーのうち、仕事だけに使うカレンダーを、会社・人と結び付けます。私用の予定が入るカレンダーは選ばないでください。Googleの予定や共有の設定は変えません。結び付けたカレンダーは、上の「Googleカレンダー連携」の「予定画面に表示するカレンダー」でも選び、その人が同期してください。</p>'+(calsLoadingNow()?'<p role="status">カレンダーの一覧を読み込み中です。終わってから選べます（入力した内容は残ります）。</p>':!G.cals?'<p>一覧未取得です。Googleとまとめて同期後に選べます。</p>':'<form id="calendarScopeForm"><label class="f">カレンダー<select id="cs_cal" required><option value="">選択してください</option>'+G.cals.filter(gReadable).map(c=>opt(c.id,c.name+' / '+c.id)).join('')+'</select></label><label class="f">用途<select id="cs_mode"><option value="person">人物を確認した仕事専用</option><option value="mixed">複数の人が使う仕事用（HUBの案件と結び付いた予定だけ）</option></select></label><label class="f">会社（人物を確認した場合）<select id="cs_company"><option value="">選択してください</option>'+cat.companies.map(c=>opt(c,c)).join('')+opt('unknown','会社未特定（複数社等・推測しない）')+'</select></label><label class="f">人物（人物を確認した場合）<select id="cs_person"><option value="">選択してください</option>'+cat.people.map(p=>opt(p.sheetId,p.name+' / '+p.sheetId)).join('')+'</select></label><label class="f"><span><input type="checkbox" id="cs_work" required>私的予定を含まない仕事用で、会社・人物の対応を確認しました</span></label><button class="btn" type="submit">対応を確認して保存</button></form>')+'<p class="note">複数の人が使うカレンダーの予定は、HUBに登録した案件と結び付いたものだけ、誰の予定か分かります。設定していない人や、誰の予定か分からない予定は、0件という意味ではありません。</p>'+stored.rows.map((r,i)=>'<p class="note">'+h(r.id)+' → '+h(r.mode==='mixed'?'複数の人が使う仕事用':r.company+' / '+(cat.people.find(p=>p.sheetId===r.person)?.name||'人物未確認'))+' <button class="btn sm" type="button" data-calendar-map-remove="'+i+'">対応を外す</button></p>').join('')+(ui.calendarMapError?'<p role="alert">'+h(ui.calendarMapError)+'</p>':'')+'</details>';
 }
 function calendarScopeSave(){
  const id=val('cs_cal'),mode=val('cs_mode'),company=val('cs_company'),person=val('cs_person'),cat=CPGViewScope.catalog(scopeContext());
@@ -1847,9 +1847,12 @@ function vCal(){
   const calProblems=[!model.usable?'選んだ会社・人を確認できません。':'',model.usable&&!statuses.length?'選んだ人の予定は未取得です（まだ読み込んでいません）。':'',pending.length?'未取得 '+pending.length+'人：'+pending.map(p=>h(p.name)).join('、')+'。予定があるかは分かりません。':'',
     raw.state==='error'?'Googleの予定を読めませんでした。未取得として出しています。':'',raw.state==='kept'?'前回の同期のときの予定です。':'',mixedMissingCount?'共有カレンダー '+mixedMissingCount+'件を読めていません（未取得）。':'',
     projected.privacyUnconfirmed.length?'同期し直してください：中身を出していない予定が '+projected.privacyUnconfirmed.length+'件あります。':'',projected.unidentified.length?'誰の予定か分からない予定が '+projected.unidentified.length+'件あります（中身は出しません）。':'',mapping.state==='invalid'?'仕事用カレンダーの設定を読み戻せません。設定を確かめてください。':''].filter(Boolean);
-  const gst=calProblems.length?'<div class="gcst calendar-scope-status" role="status">'+calProblems.map(x=>'<p>'+x+'</p>').join('')+'</div>':'';
+  /* v1.49.3 予定の読み込みの説明は上の「ⓘ」の中へ（scopeHeader が ui.calInfo を出す）。画面に出すのは小さな札だけ：持ち主の分からない予定の件数と、読めなかった・同期し直しが要るとき */
+  ui.calInfo='<div class="gcst calendar-scope-status" role="status">'+(calProblems.length?calProblems.map(x=>'<p>'+x+'</p>').join(''):'<p>選んだ人の予定は読み込めています。</p>')+'</div>';
+  const calTags=[projected.unidentified.length?'持ち主不明の予定 '+projected.unidentified.length+'件':'',raw.state==='error'?'予定を読めませんでした':'',projected.privacyUnconfirmed.length?'同期し直してください '+projected.privacyUnconfirmed.length+'件':'',mapping.state==='invalid'?'カレンダーの設定を確かめてください':''].filter(Boolean);
+  const gst=calTags.length?'<div class="row caltags">'+calTags.map(x=>'<span class="alerttag" role="status">'+h(x)+'</span>').join('')+'</div>':'';
   const legend="";
-  const note=calendarScopeSettings();
+  const note='';
   const views='<div class="seg cv calviews" role="group" aria-label="表示の切り替え">'+[["month","月"],["week","週"],["day","日"]].map(([k,l])=>'<button type="button" data-cv="'+k+'" aria-pressed="'+(ui.calView===k)+'">'+l+'</button>').join("")+'</div>';
   const nav=(step,title,todayLabel,prevLabel,nextLabel)=>'<div class="calnav"><button class="btn sm" type="button" data-shift="'+(-step)+'" aria-label="'+prevLabel+'">‹</button><h2 class="num">'+title+'</h2>'+
     '<button class="btn sm" type="button" data-shift="today">'+todayLabel+'</button><button class="btn sm" type="button" data-shift="'+step+'" aria-label="'+nextLabel+'">›</button>'+views+'</div>';
@@ -1868,7 +1871,7 @@ function vCal(){
     }
     return '<section class="sec">'+
       nav(7,title,"今週","前の週","次の週")+
-      legend+'<div class="wk">'+rows+'</div>'+gst+note+'</section>';
+      gst+legend+'<div class="wk">'+rows+'</div>'+note+'</section>';
   }
   if(ui.calView==="day"){
     const sel=day(ui.calDay);
@@ -1876,7 +1879,7 @@ function vCal(){
       '<div class="ttl">'+h(x.title)+'</div>'+(x.loc?'<div class="row note"><span style="min-width:0;overflow-wrap:anywhere">'+h(x.loc)+'</span><a class="btn sm" style="display:inline-flex;align-items:center;text-decoration:none" target="_blank" rel="noopener noreferrer" href="https://www.google.com/maps/search/?api=1&amp;query='+encodeURIComponent(x.loc)+'">地図</a></div>':'')+'</div>').join("");
     return '<section class="sec">'+
       nav(1,'<span class="dtitle '+dayKind(ui.calDay)+'">'+mdw(ui.calDay)+'</span>'+(holidayName(ui.calDay)?' <span class="hol-name">'+holidayName(ui.calDay)+'</span>':''),"今日","前の日","次の日")+
-      '<div class="list">'+unknown(ui.calDay)+gRows+sel.td.map(x=>'<button type="button" class="card" data-nav="todo">'+todoCardHeading(x,'<span class="chip">ToDo</span>')+'<span class="note">ToDo画面で確認する</span></button>').join("")+((gRows||sel.td.length||isUnknown(ui.calDay))?'':'<div class="empty">この日の予定とToDoはありません</div>')+'</div>'+gst+note+'</section>';
+      gst+'<div class="list">'+unknown(ui.calDay)+gRows+sel.td.map(x=>'<button type="button" class="card" data-nav="todo">'+todoCardHeading(x,'<span class="chip">ToDo</span>')+'<span class="note">ToDo画面で確認する</span></button>').join("")+((gRows||sel.td.length||isUnknown(ui.calDay))?'':'<div class="empty">この日の予定とToDoはありません</div>')+'</div>'+note+'</section>';
   }
   const [y,m]=ui.calMonth.split("-").map(Number);
   const first=new Date(y,m-1,1), start=new Date(y,m-1,1-first.getDay());
@@ -1891,9 +1894,9 @@ function vCal(){
     cells+='<button type="button" class="'+cls+'" data-day="'+s+'" aria-label="'+(dt.getMonth()+1)+'月'+dt.getDate()+'日'+(hol?' '+hol:'')+'を日表示で開く"><span class="n">'+dt.getDate()+'</span>'+(hol?'<span class="hn">'+hol+'</span>':'')+shown+more+tdl+(isUnknown(s)?'<span class="ev '+(projected.dayState(s)==='unfetched'?'cal-unfetched':'cal-unidentified')+'">'+({unfetched:'未取得',additional:'一部未取得',privacy:'要同期',unidentified:'持ち主不明あり'})[projected.dayState(s)]+'</span>':'')+'</button>';
   }
   return '<section class="sec">'+'<div class="calnav"><button class="btn sm" type="button" data-mon="-1" aria-label="前の月">‹</button><h2 class="num">'+y+'年'+m+'月</h2><button class="btn sm" type="button" data-mon="0">今月</button><button class="btn sm" type="button" data-mon="1" aria-label="次の月">›</button>'+views+'</div>'+
-  legend+
+  gst+legend+
   '<div class="cal">'+["日","月","火","水","木","金","土"].map((w,i)=>'<div class="wd'+(i===0?" sun":i===6?" sat":"")+'">'+w+'</div>').join("")+cells+'</div>'+
-  gst+note+'</section>';
+  note+'</section>';
 }
 function vGantt(){
  if(!scopeState().usable)return scopeUnconfirmed();
@@ -2021,7 +2024,7 @@ function vStats(){
     '<div class="row"><button class="btn pri" type="submit">保存する</button></div>'+
     ''+
     '</form>')+
-  exSection()+gSettings()+dSettings()+
+  exSection()+gSettings()+'<section class="sec">'+calendarScopeSettings()+'</section>'+dSettings()+
   '<section class="sec"><a class="btn" href="./manual.html?v=1.49.3" style="text-decoration:none;text-align:center">使い方マニュアルを開く</a>'+(D().admin||D().viewListId?'<a class="btn" href="./manual-admin.html?v=1.49.3" style="text-decoration:none;text-align:center">管理者向けマニュアルを開く</a>':'')+'</section>';
 }
 function gSettings(){

diff --git a/docs/引継ぎ.md b/docs/引継ぎ.md
@@ -16,7 +16,8 @@
 - `scopeHeader()`：会社・人は `CPGViewScope.controls` の select を細い1行に並べる（CSSで見出しを隠す。選択肢の文字だけ「全社」「全員」「自分」に短くする）。注意は `.alerttag`（`scope-alert` も付ける）1つ、押すと `scopealert` で期限切れ→ToDo、緊急→案件（緊急）、失注日なし→数字、未読込→会社の動き。ホームでは札を出さない（タイルに同じ数字がある）。
 - 説明は `infoBtn(k)`／`infoBox(k,html)`。開いた状態は `ui.info`（保存しない）。`data-info` の処理は data-act の前。
 - 同期：ホーム以外は `syncMini()`（`data-act="gsync"`）。この端末の注意は `homeSyncLabels()` から、赤い「⚠」と aria-label・title に出す。ホームの注意の出し方は変えない。予定と数字の設定の中の大きな同期ボタンも小さな形にした。
-- 案件：種類は `#c_type`（`ui.type`）、チェックは `details.filters`、Access書出しは `.btn.xs`。予定：`.calviews` を `calnav` の行へ、`gst`（読み込みの状況）は予定の下。数字：`statsPeriodControls()` を `#stats-won` の先頭に入れ、月別・全期間とⓘは見出しの行（`statsModeSeg()`）。`#stats-month` は `.monthpick` 全体を覆う透明の月入力。未入金の節は見積と受注の下へ。会社の動き：戻るボタンは見出しの行、`一覧を読み直す` はⓘの中。
+- 案件：種類は `#c_type`（`ui.type`）、チェックは `details.filters`、Access書出しは `.btn.xs`。予定：`.calviews` を `calnav` の行へ。読み込みの状況は `ui.calInfo` に入れ、`scopeHeader` のⓘの中に出す（`.calendar-scope-status`）。画面には `calTags`（持ち主不明の件数・読めなかった・同期し直し・設定の読み戻し不可）だけ。`calendarScopeSettings()` は数字の設定（`gSettings()` の後）へ移した。数字：`statsPeriodControls()` を `#stats-won` の先頭に入れ、月別・全期間とⓘは見出しの行（`statsModeSeg()`）。`#stats-month` は `.monthpick` 全体を覆う透明の月入力。未入金の節は見積と受注の下へ。会社の動き：戻るボタンは見出しの行、`一覧を読み直す` はⓘの中。
+- マニュアル：manual.html に「初めて使うとき」（初期設定の順番・社員／GM・全社）を足し、「新しいスマホ・PC」にカレンダーとのつながりが戻らないこと・登録の前に確かめることを足した。開発者向けの言葉（混在・未識別・所有者・読込対象・共通選択・閲覧範囲など）を社員の言葉に直した。
 - 文言を変えたテスト：`calendar-view-scope-browser`・`calendar-cache-browser`（予定の状況の言葉）、`sync-result-browser`（予定のタブは小さな同期）、`view-scope-app-browser`・`stats-company-browser`（説明はⓘを開いて確かめる）、`stats-lost-browser`（スクショの位置）。
 - 開発検証は合成データ・Chromium。実機の確認は含まない。
 

diff --git a/README.md b/README.md
@@ -242,7 +242,7 @@ GMが見たり指示を出したりできる相手は、GMと同じ1社だけに
 
 どのタブも上の部分を「会社・人の細い1行（押すと選べる）」と「注意があるときだけの赤い札（押すとその一覧へ）」までにしました。説明の文章は「ⓘ」で開くときだけ出します。大きな「Googleとまとめて同期」はホームだけで、ほかのタブは小さな「日時 ↻」。この端末の同期の注意はホームで今までどおり出し、ほかのタブでも「↻」に赤い「⚠」を付けます。開発者向けの言葉（要求範囲・混在共有・未識別・所有者など）は、社員が分かる言葉に直しました。
 
-案件の種類はプルダウン、絞り込みのチェックは「絞り込み」の中、「Access書出し」は見出しの右端の小さなボタン。予定は「月・週・日」を月の切り替えの行へ、読み込みの状況は予定の下へ。数字の月は「‹ 前月｜年月｜翌月 ›」の1行（高さ48px以上、真ん中を押すと月を選べる）。390×844で、どのタブも1件目が画面の上から3分の1以内に見えます（この端末の同期の注意が出ているホームを除く）。データ・同期・保存・権限・絞り込みの中身・集計は変えていません。テスト：`tests/compact-top-browser.cjs`。
+案件の種類はプルダウン、絞り込みのチェックは「絞り込み」の中、「Access書出し」は見出しの右端の小さなボタン。予定は大きな同期ボタンをなくし、「月・週・日」を年月の行の細い切り替え（44px）に。読み込みの状況の説明は「ⓘ」の中で、持ち主不明の予定・読めなかった・同期し直しが要るときだけ小さな札。「仕事用カレンダーの対応設定」は数字の下の設定へ移しました。数字の月は「‹ 前月｜年月｜翌月 ›」の1行（高さ48px以上、真ん中を押すと月を選べる）。390×844で、どのタブも1件目が画面の上から3分の1以内に見えます（この端末の同期の注意が出ているホームを除く）。データ・同期・保存・権限・絞り込みの中身・集計は変えていません。テスト：`tests/compact-top-browser.cjs`。
 
 ## v1.49.2（2026-11-03）初期設定の案内と、入力途中の設定を残す
 
